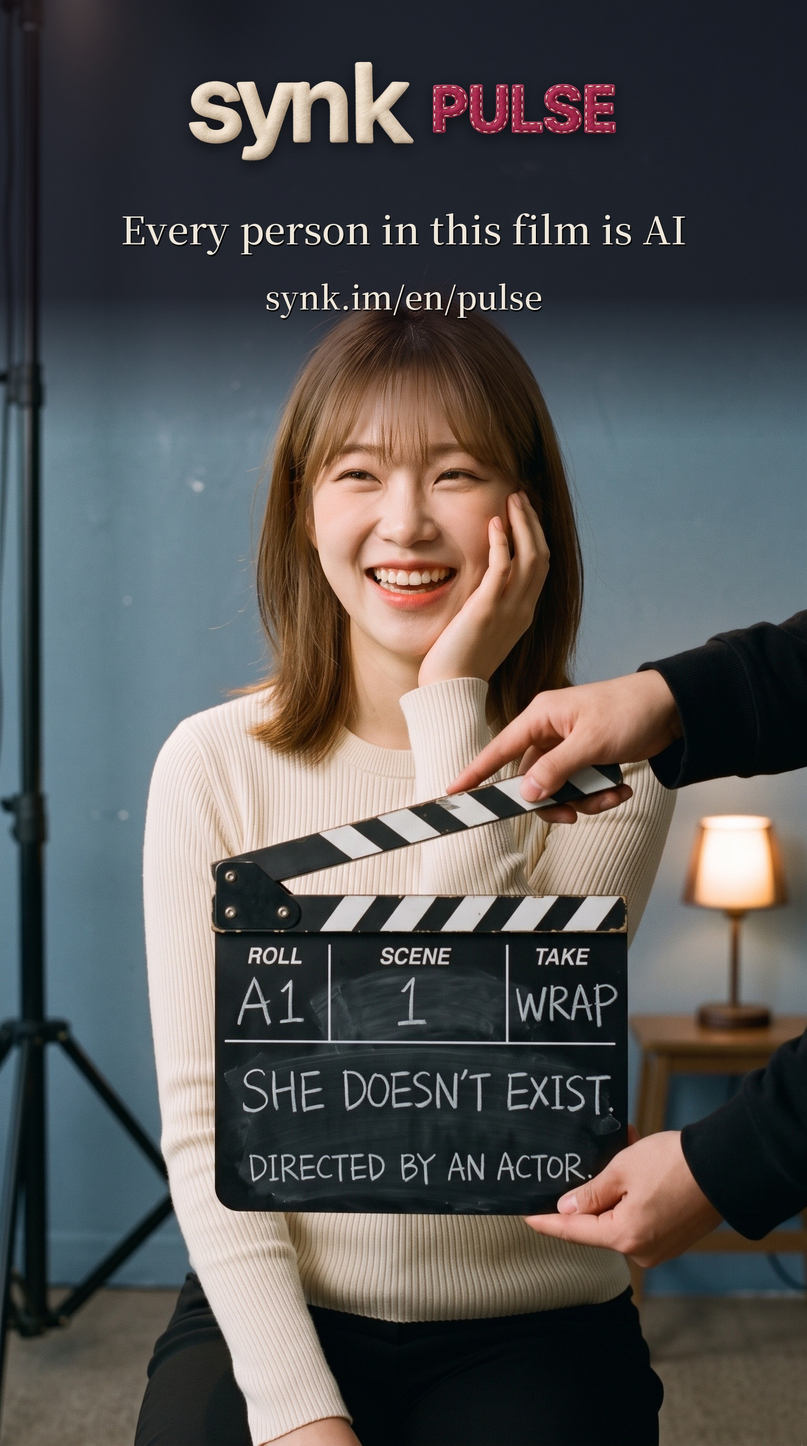
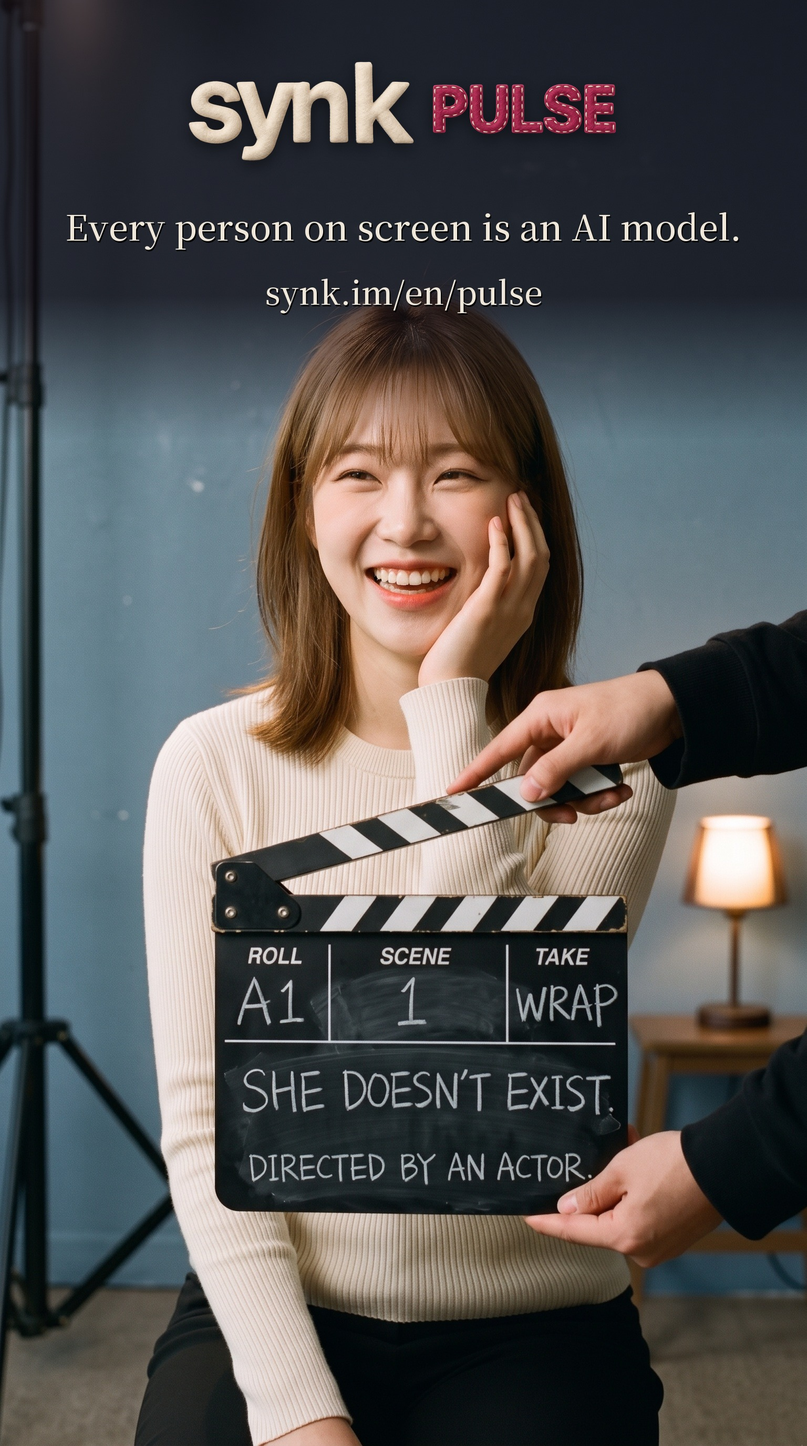
PULSE 영어 둘째 편 — 2차 콘티 검수(Fable 한도로 Opus 5.5 대체) 반영: 끝 화면 고지 범위를 화면 안 사람으로, C4 카메라 다가감 8%

Changed region(s): [[0.0938, 0.125, 0.9062, 0.2188]]

diff --git a/docs/마케팅/PULSE_영어시험_20261117/02_다섯번의디렉션/검수/검수기록.md b/docs/마케팅/PULSE_영어시험_20261117/02_다섯번의디렉션/검수/검수기록.md
@@ -16,10 +16,16 @@
 2. **얼굴과 크기가 판마다 다름(둘 다).** 그림 5만 넓은 선 구도라 얼굴이 갸름해 보이고 슬레이트가 작았다. 카본은 그림 4 · 6도 다른 얼굴로 봤다. → 여섯 판 모두 같은 카메라 자리의 가슴 위 구도(C4만 조금 당김), 모두 스툴에 앉음.
 3. **빛과 배경이 평평하고 지저분함(둘 다).** 증명사진 같은 앞빛, 빈 벽, 오른쪽 가장자리의 테이프와 잘린 의자. → 왼쪽 위 소프트박스 한 방향 + 머리 뒤 오른쪽의 흐릿한 따뜻한 스탠드 등(테두리 빛), 화면 왼쪽 가장자리의 조명 스탠드 기둥. 테이프와 의자는 뺐다.
 4. **슬레이트가 AI 소품처럼 보임(카본 미학 맹검).** 실제 슬레이트의 인쇄 칸이 없고 분필이 너무 깨끗하다(Fable). → 위쪽에 ROLL · SCENE · TAKE 인쇄 칸, 아래 큰 분필 칸, 지운 자국.
-5. **끝 화면(둘 다).** 벽 위에 얹은 로고가 따로 놀고, 칠판에 적은 주소가 촌스럽고, 고지가 니트 위에서 안 읽힌다. → 끝 슬레이트에는 두 줄만 두고(TAKE 칸은 WRAP), 그 뒤에 첫 편과 같은 꼴의 검정 끝 화면 3초(로고 · 주소 · 고지)를 둔다.
+5. **끝 화면(둘 다).** 벽 위에 얹은 로고가 따로 놀고, 칠판에 적은 주소가 촌스럽고, 고지가 니트 위에서 안 읽힌다. → 끝 슬레이트에는 두 줄만 두고(TAKE 칸은 WRAP), 슬레이트가 빠진 뒤 웃는 하린 위쪽에 첫 편과 같은 꼴의 끝 화면(로고 · 고지 · 주소)을 둔다(첫 편이 11-17 밤 검정 판을 미학 맹검 기각으로 마지막 장면 안으로 옮겨 그 꼴을 따름).
 6. **「DIRECTED BY AN ACTOR.」의 뜻이 바로 오지 않음(둘 다).** 「SHE DOESN'T EXIST.」만 크게 읽혀 「배우가 필요 없다」로 읽힐 위험이 있다. → 끝 슬레이트를 원래 문구 판과 「HER DIRECTOR IS A REAL ACTOR.」 판 두 벌로 굽고 유호님께 고르시게 한다.
 
 받아들이지 않은 것:
 
 - **카본 「테이크를 2~3개로 줄이고, 주문마다 배경 · 빛이 실제 광고 장면으로 바뀌게」.** 셋째 편(스펙 광고)이 제작 공력을 맡고, 이 편은 유호님이 고르신 「같은 두 마디, 다섯 번의 디렉션」 연기 편이다. 다섯 판은 지키고, 편집에서 판마다 슬레이트 시간을 줄여 빠르기를 맞춘다.
 - **카본 「연기를 푼 웃음 뒤에 없다고 밝히면 인간미를 흉내 내 속였다는 거부감」.** Fable은 같은 자리(그림 5 → 6)를 이 편의 가장 센 순간으로 봤다. 반전은 지키고, 6번 고침(둘째 줄의 뜻)으로 「사람이 이끈 연기」를 분명히 한다.
+
+## 2. 이미지 콘티 2차 검수(11-18 0시, [콘티판_2차.jpg](콘티판_2차.jpg))
+
+- **Fable 5.2는 못 받았다.** 재검수를 맡기자 「Fable limit · resets Nov 23, 12pm」으로 멈췄다(11-18 0시, `get_usage` 주간 Fable 100%). 운영 원칙 「Fable 한도 대체」대로 같은 지시문을 **Opus 5.5 대체 검수**로 돌렸다.
+- **Opus 5.5 대체 검수: 이해성 6 · 몰입 5.** 반영한 것: ① 끝 화면 고지를 「Every person in this film is AI」에서 「Every person on screen is an AI model.」로 좁혔다 — 앞 문구는 화면 밖 감독까지 AI로 읽혀 「DIRECTED BY AN ACTOR.」와 부딪쳤다. ② 여섯 판의 구도가 같아 늘어진다 — C4는 재채기 동안 카메라가 8% 다가가게 바꿨다. ③ 끝 슬레이트 문구는 원래 문구(C6_a)를 골랐다 — 「영화 크레딧 꼴이라 사람이 작품의 주인으로, AI가 도구로 읽힌다. 『REAL』은 진짜와 가짜를 맞세우고 『HER DIRECTOR』는 사람을 그녀 밑에 둔다」. 1차에서 Fable · 카본이 짚은 「뜻이 바로 안 온다」는 ①의 고지 범위로 풀었다고 보고, 유호님이 고르신 원래 문구로 간다(C6_b는 후보로만 남김).
+- **받아들이지 않은 것:** 「시작 그림부터 감정을 실어라(그림 1 젖은 눈 · 2 억지로 밝은 얼굴 · 4 찡그린 코)」는 1차 Fable 지적(딱 뒤에 바뀌는 순간이 볼거리)과 정반대다. 바뀌는 순간은 영상으로만 보이므로 C1 · C4 시험 판과 한 장면 심사로 가린다. 「승인 로고의 입체 synk · 반짝이 PULSE가 세리프와 섞여 촌스럽다」(카본 · Opus)는 승인 로고라 바꾸지 않는다 — 첫 편과 같은 끝 화면이다.
